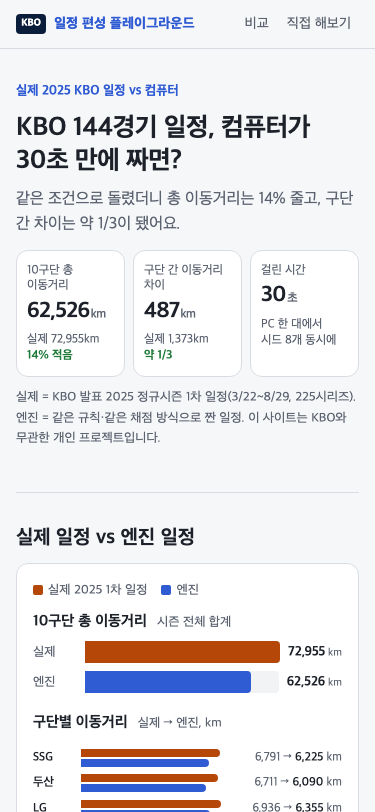
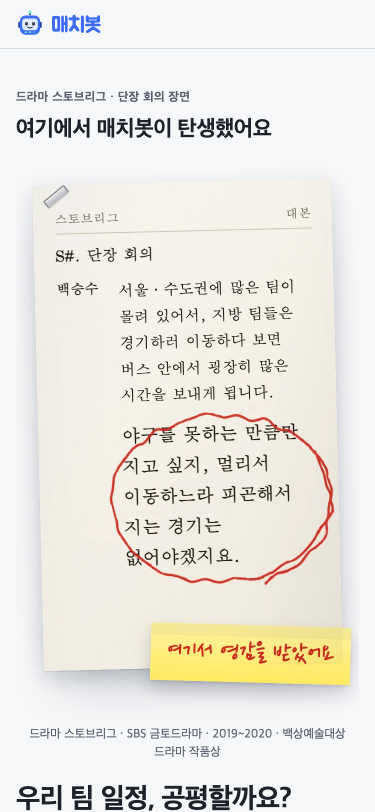
첫 화면 대본 그림: 손글씨 메모를 노란 포스트잇으로(빨간 펜 동그라미 + 포스트잇, 사용자 선택)
- 그림 틀에 d 모양(빨간 펜 동그라미 + 빨간 펜 글씨 포스트잇) 추가, 휴대폰·PC 두 장 다시 그림.
- 그림 작업본 폴더(script-img/out)는 무시 목록에.
- 보여주는 문 점검 3폭 PASS.

diff --git a/ui/tools/show/script-img/render.html b/ui/tools/show/script-img/render.html
@@ -82,13 +82,13 @@ svg.ink { position: absolute; inset: 0; width: 100%; height: 100%; overflow: vis
   if (V === 'b') { padL += W >= 688 ? 30 : 20; var h = document.createElement('div'); h.className = 'holes'; h.innerHTML = '<i></i><i></i>'; paper.appendChild(h); }
   else { var s = document.createElement('i'); s.className = 'staple'; paper.appendChild(s); }
   paper.style.padding = padT + 'px ' + padR + 'px ' + padB + 'px ' + padL + 'px';
-  var rot = V === 'a' ? -1.4 : V === 'b' ? 0 : 1.1;
+  var rot = V === 'a' || V === 'd' ? -1.4 : V === 'b' ? 0 : 1.1;
   paper.style.transform = 'rotate(' + rot + 'deg)';
-  var color = V === 'a' ? '#d0271d' : V === 'b' ? '#1f3fa8' : '#4a4640';
+  var color = V === 'a' || V === 'd' ? '#d0271d' : V === 'b' ? '#1f3fa8' : '#4a4640';
   var note = document.getElementById('note');
-  if (V === 'c') { // 포스트잇: 메모 글을 종이 오른쪽 아래에 붙인 쪽지로
+  if (V === 'c' || V === 'd') { // 포스트잇: 메모 글을 종이 오른쪽 아래에 붙인 쪽지로(d는 빨간 펜 글씨)
     note.parentNode.removeChild(note);
-    var st = document.createElement('div'); st.className = 'sticky'; st.textContent = '여기서 영감을 받았어요'; paper.appendChild(st);
+    var st = document.createElement('div'); st.className = 'sticky'; st.textContent = '여기서 영감을 받았어요'; if (V === 'd') st.style.color = color; paper.appendChild(st);
     document.getElementById('noteWrap').style.height = (W >= 688 ? 48 : 40) + 'px';
   } else { note.style.color = color; if (V === 'b') { note.style.transform = 'rotate(-1.5deg)'; } }
   // 종이를 돌리기 전 좌표로 잰다(svg도 종이 안에 있어 같이 돈다)
@@ -116,7 +116,7 @@ svg.ink { position: absolute; inset: 0; width: 100%; height: 100%; overflow: vis
   var sw = W >= 688 ? 3 : 2.4;
   var penStyle = V === 'c' ? 'stroke:' + color + ';stroke-width:' + (sw * .9) + ';opacity:.85;filter:url(#pencil)' : 'stroke:' + color + ';stroke-width:' + sw + ';opacity:.92;filter:url(#rough)';
   var html = '<path d="' + loop(1.28, -0.5) + '" fill="none" stroke-linecap="round" stroke-linejoin="round" style="' + penStyle + '"/>';
-  if (V !== 'c') { // 메모 → 동그라미 화살표
+  if (V !== 'c' && V !== 'd') { // 메모 → 동그라미 화살표
     var N = note.getBoundingClientRect();
     var x1 = N.left - P.left - 4, y1 = N.top - P.top + N.height * .55;
     var x2 = cx - rx * .12, y2 = cy + ry + 4;
@@ -127,7 +127,7 @@ svg.ink { position: absolute; inset: 0; width: 100%; height: 100%; overflow: vis
   }
   pen.innerHTML = html;
   paper.style.transform = 'rotate(' + rot + 'deg)';
-  function report() { document.documentElement.setAttribute('data-h', Math.ceil(document.body.getBoundingClientRect().height + (V === 'c' ? 24 : 0))); }
+  function report() { document.documentElement.setAttribute('data-h', Math.ceil(document.body.getBoundingClientRect().height + (V === 'c' || V === 'd' ? 24 : 0))); }
   if (document.fonts && document.fonts.ready) document.fonts.ready.then(report); else report();
   setTimeout(report, 1500);
 })();

diff --git a/ui/show/index.html b/ui/show/index.html
@@ -86,11 +86,11 @@
          두 대사 모두 백승수 단장(사용자 확인). 장면 번호·회차·쪽 번호는 모르므로 비워 둔다. 드라마 정보: SBS 금토드라마, 2019-12-13~2020-02-14, 제56회 백상예술대상 TV 드라마 작품상. 영상·캡처·로고는 쓰지 않는다(2026-10-22 결정) -->
     <p class="sh-kicker sh-q1-k">드라마 스토브리그 · 단장 회의 장면</p>
     <h2 class="sh-h2 sh-q1-h">여기에서 매치봇이 탄생했어요</h2>
-    <!-- 대본 한 장은 그림(2026-11-01, 사용자: CSS 종이가 아쉬움 → 실제 대본처럼). 종이·스테이플·빨간 펜 동그라미·손글씨 메모를 그림에 구워 둔다. 휴대폰(343폭)·PC(688폭) 두 장, 2배 해상도, 배경 투명. 다시 만들기: ui/tools/show/script-img/render.sh. 쪽 제목 h1과 "기준은?" 질문은 그림 아래 글로 -->
+    <!-- 대본 한 장은 그림(2026-11-01, 사용자: CSS 종이가 아쉬움 → 실제 대본처럼). 종이·스테이플·빨간 펜 동그라미·포스트잇 손글씨 메모(사용자 선택: 빨간 펜 + 포스트잇)를 그림에 구워 둔다. 휴대폰(343폭)·PC(688폭) 두 장, 2배 해상도, 배경 투명. 다시 만들기: ui/tools/show/script-img/render.sh. 쪽 제목 h1과 "기준은?" 질문은 그림 아래 글로 -->
     <figure class="sh-q1c">
       <picture>
-        <source media="(min-width: 768px)" srcset="stove-script-pc.webp" width="1376" height="1108">
-        <img src="stove-script-m.webp" width="686" height="1118" alt="드라마 대본 한 장. S#. 단장 회의. 백승수: 서울·수도권에 많은 팀이 몰려 있어서, 지방 팀들은 경기하러 이동하다 보면 버스 안에서 굉장히 많은 시간을 보내게 됩니다. 야구를 못하는 만큼만 지고 싶지, 멀리서 이동하느라 피곤해서 지는 경기는 없어야겠지요. 이 대사에 빨간 펜으로 동그라미를 치고 '여기서 영감을 받았어요'라고 적어 두었어요.">
+        <source media="(min-width: 768px)" srcset="stove-script-pc.webp" width="1376" height="1104">
+        <img src="stove-script-m.webp" width="686" height="1132" alt="드라마 대본 한 장. S#. 단장 회의. 백승수: 서울·수도권에 많은 팀이 몰려 있어서, 지방 팀들은 경기하러 이동하다 보면 버스 안에서 굉장히 많은 시간을 보내게 됩니다. 야구를 못하는 만큼만 지고 싶지, 멀리서 이동하느라 피곤해서 지는 경기는 없어야겠지요. 이 대사에 빨간 펜으로 동그라미를 치고, 노란 포스트잇에 '여기서 영감을 받았어요'라고 적어 붙여 두었어요.">
       </picture>
       <figcaption class="sh-q1c-foot">드라마 스토브리그 · SBS 금토드라마 · 2019~2020 · 백상예술대상 드라마 작품상</figcaption>
     </figure>
